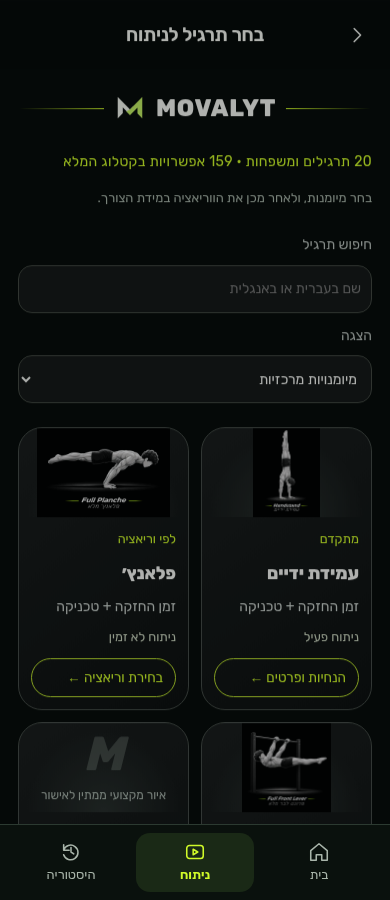
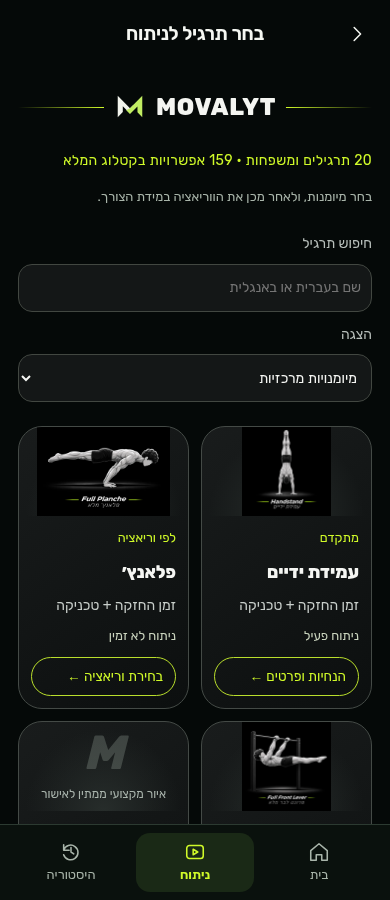
test: verify final artwork at mobile and desktop widths

diff --git a/scripts/verify-catalog-fix.py b/scripts/verify-catalog-fix.py
@@ -30,12 +30,13 @@ with sync_playwright() as p:
    page.wait_for_function("document.body.dataset.screen==='catalog'")
   page.goto(origin+'/vercel-app/',wait_until='networkidle')
   page.locator('#welcomeSkip').click();catalog()
+  media=page.evaluate("async()=>{const {ANALYSIS_MEDIA}=await import('./analysis-media.js');return Object.fromEntries(Object.entries(ANALYSIS_MEDIA).map(([id,asset])=>[id,asset.image]));}")
   for family in ['planche','front-lever']:
    cover=page.locator(f'#catalogGrid [data-exercise="{family}"] img')
    cover.scroll_into_view_if_needed();cover.evaluate('(img)=>img.decode()')
    assert cover.get_attribute('src')==f'./assets/anatomy/full-{family}.webp'
   assert page.locator('#catalogGrid [data-exercise$="-band"]').count()==0
-  check();page.evaluate('scrollTo(0,0)');page.screenshot(path=str(OUT/f'catalog-{width}.png'))
+  check();page.evaluate('scrollTo(0,0)');page.wait_for_timeout(350);page.screenshot(path=str(OUT/f'catalog-{width}.png'))
   scenarios=0
   for family in ['planche','front-lever']:
    catalog();page.locator(f'#catalogGrid [data-exercise="{family}"]').click()
@@ -44,22 +45,33 @@ with sync_playwright() as p:
     ids=page.locator('#variationGrid [data-exercise]').evaluate_all('(nodes)=>nodes.map(x=>x.dataset.exercise)')
     assert len(ids)==(7 if family=='planche' and mode=='none' else 6)
     for exercise in ids:
+     card=page.locator(f'#variationGrid [data-exercise="{exercise}"]')
+     if media[exercise]:
+      assert card.locator('img').get_attribute('src')==media[exercise]
+      card.locator('img').scroll_into_view_if_needed();card.locator('img').evaluate('(img)=>img.decode()')
      page.locator(f'#variationGrid [data-exercise="{exercise}"]').click()
      page.locator('#variationContinue').click()
      page.wait_for_function("document.body.dataset.screen==='guide'")
+     if media[exercise]:assert page.locator('#guideArtwork img').get_attribute('src')==media[exercise]
      check();page.reload(wait_until='networkidle')
      assert page.evaluate("JSON.parse(localStorage.getItem('movalyt-library-selection-v1')).exerciseId")==exercise
      if exercise=='planche-lean':
-      assert page.locator('#guideArtwork img').count()==0
+      assert page.locator('#guideArtwork img').get_attribute('src')=='./assets/anatomy/planche-lean.webp'
+      page.locator('#guideArtwork img').evaluate('(img)=>img.decode()')
       assert 'הרגליים נשארות על הרצפה' in page.locator('#guideCriteria').inner_text()
       assert page.locator('#guideWorkout').is_visible()
-      page.screenshot(path=str(OUT/f'lean-guide-{width}.png'))
+      page.evaluate('scrollTo(0,0)');page.screenshot(path=str(OUT/f'lean-guide-{width}.png'))
      page.locator('#guideBack').click()
      page.wait_for_function("document.body.dataset.screen==='variations'")
      assert page.locator(f'#variationGrid [data-exercise="{exercise}"]').get_attribute('aria-pressed')=='true'
      scenarios+=1
-  catalog();page.locator('#catalogGrid [data-exercise="handstand"]').click()
-  assert page.locator('#guideArtwork img').get_attribute('src')=='./assets/anatomy/handstand.webp'
+  catalog()
+  handstand=page.locator('#catalogGrid [data-exercise="handstand"] img')
+  assert handstand.get_attribute('src')=='./assets/anatomy/handstand-corrected.webp'
+  handstand.scroll_into_view_if_needed();handstand.evaluate('(img)=>img.decode()')
+  page.locator('#catalogGrid [data-exercise="handstand"]').click()
+  assert page.locator('#guideArtwork img').get_attribute('src')=='./assets/anatomy/handstand-corrected.webp'
+  check();page.evaluate('scrollTo(0,0)');page.screenshot(path=str(OUT/f'handstand-guide-{width}.png'))
   page.locator('#guideAnalyze').click();assert page.locator('#exerciseSelect').input_value()=='handstand'
   catalog();page.locator('#catalogGrid [data-exercise="planche"]').click()
   page.locator('#assistanceOptions [data-assistance="none"]').click()
@@ -83,7 +95,7 @@ with sync_playwright() as p:
   assert not errors,errors
   assert not bad,bad
   assert not posts,posts
-  results.append({'width':width,'variantGuideReloadScenarios':scenarios,'familyCoversDecoded':True,'leanWorkoutReloadAndHistory':True,'existingWorkoutPreserved':True,'overflow':False,'pageErrors':errors,'httpErrors':bad,'posts':posts,'handstandReplacement':'blocked: requested PNG missing','leanArtwork':'blocked: requested PNG missing'})
+  results.append({'width':width,'variantGuideReloadScenarios':scenarios,'familyCoversDecoded':True,'leanWorkoutReloadAndHistory':True,'existingWorkoutPreserved':True,'overflow':False,'pageErrors':errors,'httpErrors':bad,'posts':posts,'handstandReplacement':'verified: handstand-corrected.webp on catalog and guide','leanArtwork':'verified: planche-lean.webp on variation and guide'})
   print(f'{width}px: {scenarios} variation/guide/reload scenarios and workout persistence passed',flush=True)
   page.close()
  browser.close()

diff --git a/docs/movalyt-catalog-fix.md b/docs/movalyt-catalog-fix.md
@@ -9,26 +9,26 @@ Base: `feat/movalyt-approved-illustrations` at `6ebcd4d798678b020cb87f55b30ab9bd
 - Added `planche-lean` (הטיית פלאנץ׳ / Planche Lean) to Planche's unassisted variations and search, with its own guide, grounded-feet criteria and persistent library selection. No analysis engine is enabled.
 - Added `plancheLean` to the training library and a guide link to the workout exercise picker. Before starting, users can choose a single exercise or retain the complete existing plan. Single-exercise workouts use the existing sets, reload, completion and history paths. An active saved workout takes priority over a newly requested exercise; history is never migrated or overwritten.
 
-## Missing required artwork — incomplete items
+## Final supplied artwork
 
-The user supplied both illustrations visually in the chat. Their original PNG bytes were not exposed as downloadable file references or workspace files. Neither named file was found in the accessible workspace, PR #38 tree, or pinned #37 asset tree:
+Both originals from the user-provided `MOVALYT_PR39_missing_artwork.zip` are integrated:
 
-- `הטיית_פלאנץ_כוח_ושליטה.png`
-- `עמידת_ידיים_מושלמת.png`
+- `handstand-corrected.png` → `handstand-corrected.webp`: rear view, straight freestanding Handstand, replacing the old catalog/guide illustration. The old `handstand.webp` is removed.
+- `planche-lean.png` → `planche-lean.webp`: Planche Lean's variation card and filming guide. The Planche family cover remains Full Planche.
 
-Planche Lean uses the existing pending-artwork marker, with no substitute illustration or broken image URL. Handstand keeps its existing #38 image. The requested new Lean illustration and corrected rear-view Handstand replacement remain blocked until the exact originals are supplied. No new image was generated or substituted. A downloadable PNG/ZIP attachment is needed to integrate the exact supplied artwork.
+Both 1254×1254 PNGs were resized proportionally to 720×720 using Lanczos, with no cropping, and encoded as WebP (quality 85, method 6). Outputs total 38,712 bytes (15,110 and 23,602), compared with 1,614,511 bytes for the originals. Source/output SHA-256 hashes and conversion settings are in [the provenance record](movalyt-final-artwork.json). The exact supplied artwork was used; no image was generated or substituted.
 
 ## Validation
 
 - 140/140 Node tests, including the original engine byte hashes, original identity snapshot, family artwork, assisted variants, Lean selection and completed Lean workout history without duplication.
 - All existing workflow JavaScript syntax and Python harness compilation checks pass.
 - Chromium at 320, 390 and 1440 CSS pixels: family covers decode before selection; 25 variation/guide/reload scenarios per width; band assistance stays in-family; Lean guide and workout selection; workout set reload; active-workout protection; completion and reload produce one history entry. Visible images decode; no horizontal overflow, page errors, HTTP errors or POST requests. See [checks](screenshots/catalog-fix/checks.json) and screenshots in the same directory.
-- Handstand guide still uses the existing artwork and navigates to its analyzer. Corrected artwork cannot be validated because its source is missing.
+- The corrected Handstand illustration decodes on its main card and guide. Planche Lean decodes on its variation card and guide. Every illustrated Planche/Front Lever variant is checked against its media mapping. Handstand still navigates to its analyzer.
 
 Browser checks use the locally served website. No physical-device or new video inference validation. No merge, production deployment, new integration or paid service activation.
 
 ## Hosted Preview
 
-[READY Preview](https://handstand-lab-coach-bzpir15ig-eyalwen-6443.vercel.app/) for application commit `5a255ab7b36d3519cc87b43f5e16c03dc3506779`, project `handstand-lab-coach`, target Preview (`target: null`). Existing Vercel Authentication redirects unauthenticated requests to SSO; hosted application flows were not browser-tested. Deployment protection was not changed.
+[READY Preview](https://handstand-lab-coach-1k3y7645c-eyalwen-6443.vercel.app/) for application commit `faf56cf082899735a5bd0acd6690c84b14cf431b`, project `handstand-lab-coach`, target Preview (`target: null`). Existing Vercel Authentication redirects unauthenticated requests to SSO; hosted application flows were not browser-tested. Deployment protection was not changed.
 
-GitHub Actions [Validate handstand coach](https://github.com/eyalwow/handstand2/actions/runs/41913065459) succeeded on the application commit. The separate `handstand-coach-demo` Vercel integration fails before build because its configured Root Directory `coach-app` is absent (`NOW_SANDBOX_WORKER_ROOTDIR_NOT_EXIST`). The intended `handstand-lab-coach` Preview succeeded. No project configuration was changed.
+GitHub Actions [Validate handstand coach](https://github.com/eyalwow/handstand2/actions/runs/41914462209) passed on application commit `faf56cf`. The separate `handstand-coach-demo` Vercel integration has an existing configuration failure: its Root Directory `coach-app` is absent. The intended `handstand-lab-coach` Preview succeeded. No project configuration was changed.
